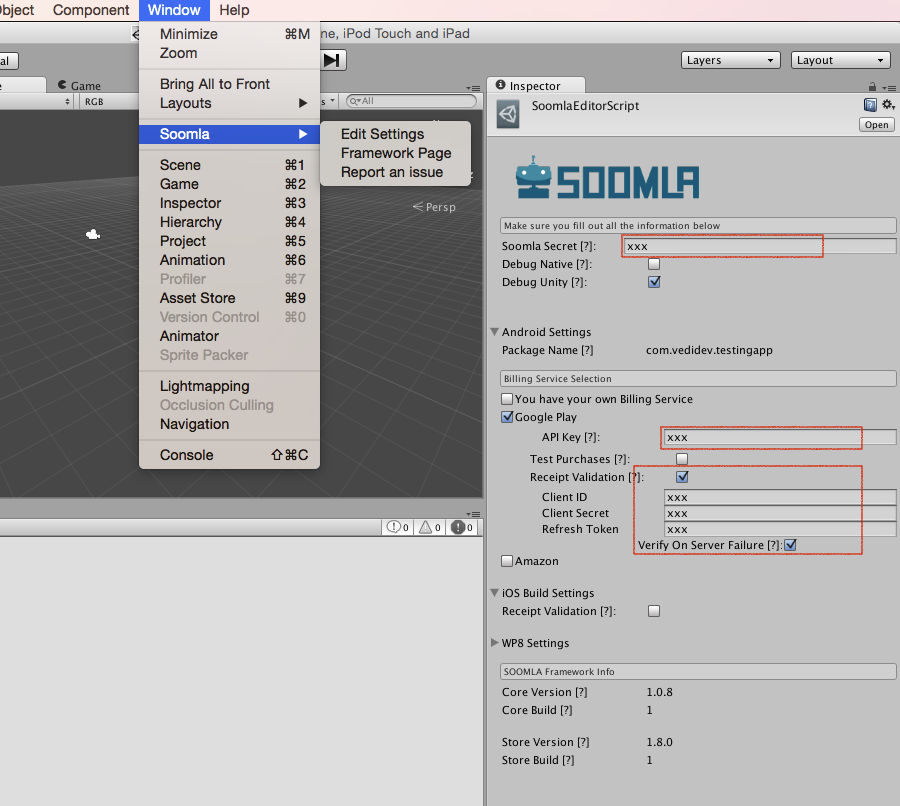
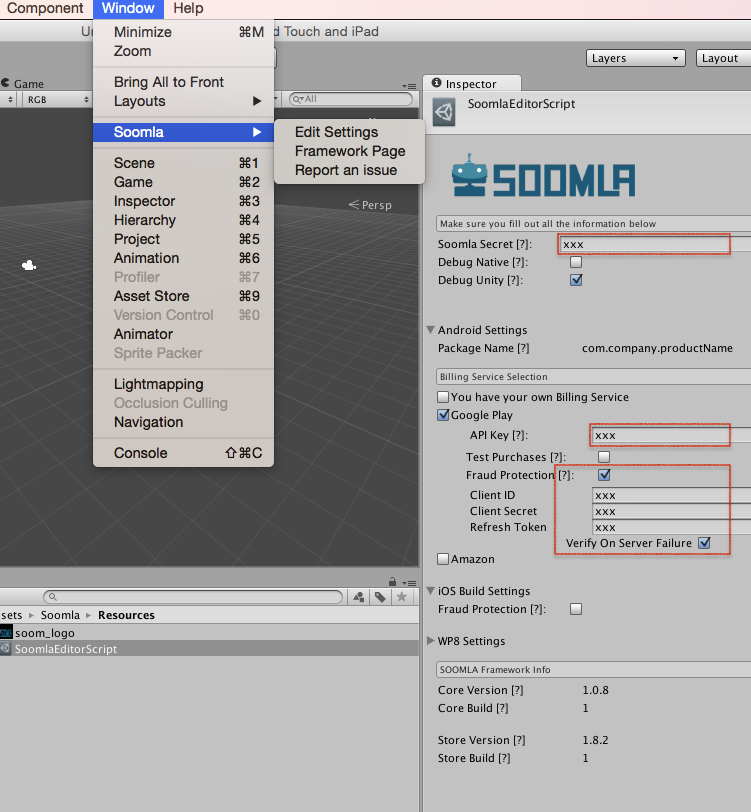
[IMPROVE] docs
change ssv's to Fraud Protection
small fixes

diff --git a/src/documents/cocos2dx/cpp/store/Store_GettingStarted.html.md b/src/documents/cocos2dx/cpp/store/Store_GettingStarted.html.md
@@ -63,10 +63,10 @@ platform: 'cocos2dx'
 
 	- *Test Purchases* - allows testing IAP on Google Play. (iOS doesn't have this functionality).
 
-	- *SSV* - enables server-side receipt verification. (in order to activate it in Google Play see the related section below).
+	- *SSV* - enables _Fraud Protection_. (in order to activate it in Google Play see the related section below).
 	
-	- *verifyOnServerFailure* - if you use server-side receipt verification, optionally you set this param,
-	if you want to get purchases automatically verified in case of network failures during the verification process.
+	- *verifyOnServerFailure* - if you use Fraud Protection, optionally you set this param, if you want to get purchases 
+	automatically verified in case of network failures during the verification process.
 
 	<div class="warning-box">Choose the secret wisely. You can't change it after you launch your game!
 	Initialize `CCSoomlaStore` ONLY ONCE when your application loads.</div>
@@ -221,7 +221,8 @@ SOOMLA's cocos2dx-store knows how to contact Google Play, Amazon Appstore, or Ap
 
     <div class="info-box">Don't forget to close the Iab Service when your store is closed.</div>
 
-5. In case you want to turn on purchase verification you need to get clientId, clientSecret and refreshToken as explained in [Google Play Purchase Verification](/android/store/Store_GooglePlayVerification) and use them like this:
+5. In case you want to turn on Fraud Protection you need to get clientId, clientSecret and refreshToken as explained in 
+[Google Play Purchase Verification](/android/store/Store_GooglePlayVerification) and use them like this:
 
 	``` cpp
 	storeParams->setObject(__String::create(<YOU_CLIENT_ID>), "clientId");
@@ -251,11 +252,14 @@ SOOMLA's cocos2dx-store knows how to contact Google Play, Amazon Appstore, or Ap
 
 1. Read our [tutorial](/ios/store/Store_AppStoreIAB) on how to define your in-app products in the App Store.
 
-2. Use SOOMLA's iOS Server Side Verification **(Optional)**
+2. Use SOOMLA's Fraud Protection **(Optional)**
 
-	As you probably know, fraud on IAP is pretty common. Hackers can crack their smartphones to think that a purchase was made when the payment isn't actually transferred to you. To help game developers with this issue, we created a verification server that you can use instantly through the framework.
+	As you probably know, fraud on IAP is pretty common. Hackers can crack their smartphones to think that a purchase 
+	was made when the payment isn't actually transferred to you. To help game developers with this issue, we created 
+	a verification server that you can use instantly through the framework.
 
-	All you need to do is let cocos2dx-store know that you want to verify purchases. You can do this by passing an extra parameter to `CCSoomlaStore`:
+	All you need to do is let cocos2dx-store know that you want to verify purchases. You can do this by passing an extra 
+	parameter to `CCSoomlaStore`:
 
 	```cpp
 	storeParams->setObject(Bool::create(true), "SSV");

diff --git a/src/documents/cocos2dx/js/store/Store_GettingStarted.html.md b/src/documents/cocos2dx/js/store/Store_GettingStarted.html.md
@@ -92,9 +92,9 @@ supported by SOOMLA's cocos2dx-store (the tag is the version).</div>
 
 	- *Test Purchases* - allows testing IAP on Google Play. (iOS doesn't have this functionality).
 
-	- *SSV* - enables server-side receipt verification. (in order to activate it in Google Play see the related section below).
+	- *SSV* - enables _Fraud Protection_. (in order to activate it in Google Play see the related section below).
 	
-	- *verifyOnServerFailure* - if you use server-side receipt verification, optionally you set this param,
+	- *verifyOnServerFailure* - if you use Fraud Protection, optionally you set this param,
 	if you want to get purchases automatically verified in case of network failures during the verification process.
 
 	<div class="warning-box">Choose the secret wisely. You can't change it after you launch your game!
@@ -268,7 +268,7 @@ SOOMLA's cocos2dx-store knows how to contact Google Play, Amazon Appstore, or Ap
 
     <div class="info-box">Don't forget to close the Iab Service when your store is closed.</div>
 
-5. In case you want to turn on purchase verification you need to get clientId, clientSecret and refreshToken as explained in [Google Play Purchase Verification](/android/store/Store_GooglePlayVerification) and use them like this:
+5. In case you want to turn on Fraud Protection you need to get clientId, clientSecret and refreshToken as explained in [Google Play Purchase Verification](/android/store/Store_GooglePlayVerification) and use them like this:
 
 	``` js
 		storeParams.clientId = <YOU_CLIENT_ID>;
@@ -298,11 +298,14 @@ SOOMLA's cocos2dx-store knows how to contact Google Play, Amazon Appstore, or Ap
 
 1. Read our [tutorial](/ios/store/Store_AppStoreIAB) on how to define your in-app products in the App Store.
 
-2. Use SOOMLA's iOS Server Side Verification **(Optional)**
+2. Use SOOMLA's Fraud Protection **(Optional)**
 
-	As you probably know, fraud on IAP is pretty common. Hackers can crack their smartphones to think that a purchase was made when the payment isn't actually transferred to you. To help game developers with this issue, we created a verification server that you can use instantly through the framework.
+	As you probably know, fraud on IAP is pretty common. Hackers can crack their smartphones to think that a purchase 
+	was made when the payment isn't actually transferred to you. To help game developers with this issue, we created 
+	a verification server that you can use instantly through the framework.
 
-	All you need to do is let cocos2dx-store know that you want to verify purchases. You can do this by passing an extra parameter to `Soomla.soomlaStore`:
+	All you need to do is let cocos2dx-store know that you want to verify purchases. You can do this by passing an extra 
+	parameter to `Soomla.soomlaStore`:
 
 	```js
     storeParams.SSV = true;

diff --git a/src/documents/android/store/Store_GettingStarted.html.md b/src/documents/android/store/Store_GettingStarted.html.md
@@ -36,7 +36,7 @@ Before doing anything, SOOMLA recommends that you go through [Android In-app Bil
 
     ``` xml
     <application ...
-        android:name="com.soomla.store.SoomlaApp">
+        android:name="com.soomla.SoomlaApp">
     ```
 
 3. Initialize Soomla with a secret that you chose to encrypt the user data. (For those who came from older versions, this should be the same as the old "customSec"):
@@ -61,7 +61,7 @@ Before doing anything, SOOMLA recommends that you go through [Android In-app Bil
 
 And that's it! You have storage and in-app purchasing capabilities... ALL-IN-ONE.
 
-Refer to the next section for information on selecting your Billing Serviceprovider and setting it up.
+Refer to the next section for information on selecting your Billing Service provider and setting it up.
 
 ##Select a Billing Service
 
@@ -121,7 +121,7 @@ Once you complete the following steps, see the [Google Play IAB](/android/store/
   }
   ```
 
-5. In case you want to turn on purchase verification you need to get clientId, clientSecret and refreshToken as explained in [Google Play Purchase Verification](/android/store/Store_GooglePlayVerification) and use them like this:
+5. In case you want to turn on _Fraud Protection_ you need to get clientId, clientSecret and refreshToken as explained in [Google Play Purchase Verification](/android/store/Store_GooglePlayVerification) and use them like this:
 
   ``` java
       GooglePlayIabService.getInstance().configVerifyPurchases(new HashMap<String, Object>() {{
@@ -155,7 +155,7 @@ SoomlaStore.getInstance().stopIabServiceInBg();
 
 Once you complete the following steps, see the [Amazon IAB](/android/store/Store_AmazonIAB) tutorial for information about in-app-purchase setup, integration with SOOMLA, and how to define your in-app purchase items.
 
-1. Add `in-app-purchasing-1.0.3.jar` and `AndroidStoreAmazon.jar` from the folder `billing-services/amazon` to your project.
+1. Add `in-app-purchasing-2.0.1.jar` and `AndroidStoreAmazon.jar` from the folder `billing-services/amazon` to your project.
 
 2. Make the following changes in `AndroidManifest.xml`:
 

diff --git a/src/documents/android/store/Store_GooglePlayVerification.html.md b/src/documents/android/store/Store_GooglePlayVerification.html.md
@@ -14,7 +14,7 @@ platform: 'android'
 
 ##Getting Started
 
-Google Play purchase verification is a way for you to prevent fraud in your game. SOOMLA provides support for verifying purchases through the Google Play Billing Service (AndroidStoreGooglePlay.jar). The way it works in that your app connects to SOOMLA's verification server in order to make sure the purchase was actually genuine and not a hack of someone who installed an IAP hacking tool.
+Google Play purchase verification is a way for you to prevent fraud in your game (_Fraud Protection_). SOOMLA provides support for verifying purchases through the Google Play Billing Service (AndroidStoreGooglePlay.jar). The way it works in that your app connects to SOOMLA's verification server in order to make sure the purchase was actually genuine and not a hack of someone who installed an IAP hacking tool.
 
 In order for the verification to work, you need to follow Google's guidelines and prepare some credentials we can use in order to verify purchases:
 
@@ -65,7 +65,7 @@ In order for the verification to work, you need to follow Google's guidelines an
 <br>
 <br>
 <br>
-**That's it!** :) Now you have a refresh token you can use to initialize verification on SOOMLA's GooglePlay billing service.
+**That's it!** :) Now you have a refresh token you can use to initialize _Fraud Protection_ on SOOMLA's GooglePlay billing service.
 
 ##Useful links
 

diff --git a/src/documents/unity/store/Store_GettingStarted.html.md b/src/documents/unity/store/Store_GettingStarted.html.md
@@ -38,7 +38,7 @@ platform: 'unity'
 
   - **Public Key** - If your billing service provider is Google Play, you'll need to insert the public key given to you from Google. (Learn more in step 4 [here](/android/store/Store_GooglePlayIAB)). **Choose both secrets wisely. You can't change them after you launch your game!**
   
-  - **Receipt Validation** - If your billing service provider supports Server Side Verification, you can turn on this option and provide needed data.
+  - **Fraud Protection** - If your billing service provider supports Fraud Protection, you can turn on this option and provide needed data.
     Optionally, you can turn on `Verify On Server Failure` if you want to get purchases automatically verified in case of network failures during the verification process.
 
     > In order to get clientId, clientSecret and refreshToken for Google Play go over [Google Play Purchase Verification](/android/store/Store_GooglePlayVerification).

diff --git a/src/documents/cocos2dx/cpp/grow/Grow_GettingStartedStoreOnly.html.md b/src/documents/cocos2dx/cpp/grow/Grow_GettingStartedStoreOnly.html.md
@@ -58,7 +58,10 @@ Get started with SOOMLA's Grow. Go to the [GROW dashboard](http://dashboard.soom
 
     - *Test Purchases* - allows testing IAP on Google Play. (iOS doesn't have this functionality).
 
-    - *SSV* - enables server-side receipt verification. (Android doesn't have this functionality).
+	- *SSV* - enables _Fraud Protection_. (in order to activate it in Google Play see the related section below).
+	
+	- *verifyOnServerFailure* - if you use Fraud Protection, optionally you set this param, if you want to get purchases 
+	automatically verified in case of network failures during the verification process.
 
     <div class="warning-box">Choose the secret wisely. You can't change it after you launch your game!
   	Initialize `CCSoomlaStore` ONLY ONCE when your application loads.</div>

diff --git a/src/documents/unity/grow/Grow_GettingStarted.html.md b/src/documents/unity/grow/Grow_GettingStarted.html.md
@@ -54,7 +54,7 @@ Go to the [GROW dashboard](http://dashboard.soom.la) and sign up \ login. Upon l
 
 	d. If you're building for Android, click on the "Android Settings" option, and choose your billing provider. If you choose Google Play, you need to provide the Public Key, which is given to you from Google.
 
-	e. If you're building for iOS, it is highly recommended to enforce receipt validation which is done by our complimentary validation service. Just click the "Receipt Validation" option under "iOS Build Settings"
+	e. If you're building for iOS, it is highly recommended to enforce Fraud Protection which is done by our complimentary verification service. Just click the "Fraud Protection" option under "iOS Build Settings"
 
 6. Initialize Highway:
 

diff --git a/src/documents/unity/grow/Grow_GettingStartedStoreOnly.html.md b/src/documents/unity/grow/Grow_GettingStartedStoreOnly.html.md
@@ -50,7 +50,7 @@ Go to the [GROW dashboard](http://dashboard.soom.la). Upon signing up, you will 
 
 	c. If you're building for Android, click on the "Android Settings" option, and choose your billing provider. If you choose Google Play, you need to provide the Public Key, which is given to you from Google.
 
-	d. If you're building for iOS, it is highly recommended to enforce receipt validation which is done by our complimentary validation service. Just click the "Receipt Validation" option under "iOS Build Settings"
+	d. If you're building for iOS, it is highly recommended to enforce Fraud Protection which is done by our complimentary verification service. Just click the "Fraud Protection" option under "iOS Build Settings"
 
 5. Initialize Highway:
 

diff --git a/src/documents/cocos2dx/js/grow/Grow_GettingStartedStoreOnly.html.md b/src/documents/cocos2dx/js/grow/Grow_GettingStartedStoreOnly.html.md
@@ -92,7 +92,7 @@ example, refer to the example below. For more details refer to the cocos2dx-stor
 
     - *Test Purchases* - allows testing IAP on Google Play. (iOS doesn't have this functionality).
 
-    - *SSV* - enables server-side receipt verification. (Android doesn't have this functionality).
+	- *SSV* - enables _Fraud Protection_. (in order to activate it in Google Play see the related section below).
 
     <div class="warning-box">Choose the secret wisely. You can't change it after you launch your game!
   	Initialize `SoomlaStore` ONLY ONCE when your application loads.</div>

diff --git a/src/documents/ios/store/Store_MainClasses.html.md b/src/documents/ios/store/Store_MainClasses.html.md
@@ -111,4 +111,4 @@ The configurations of your store will be kept in `StoreConfig`.
 
 - `METADATA_VERSION` - This value defines the version of the metadata located in your database. Never change the value of this variable!
 
-- `VERIFY_PURCHASES` - When set to `YES`, server side verification will be enabled.
+- `VERIFY_PURCHASES` - When set to `YES`, Fraud Protection will be enabled.
